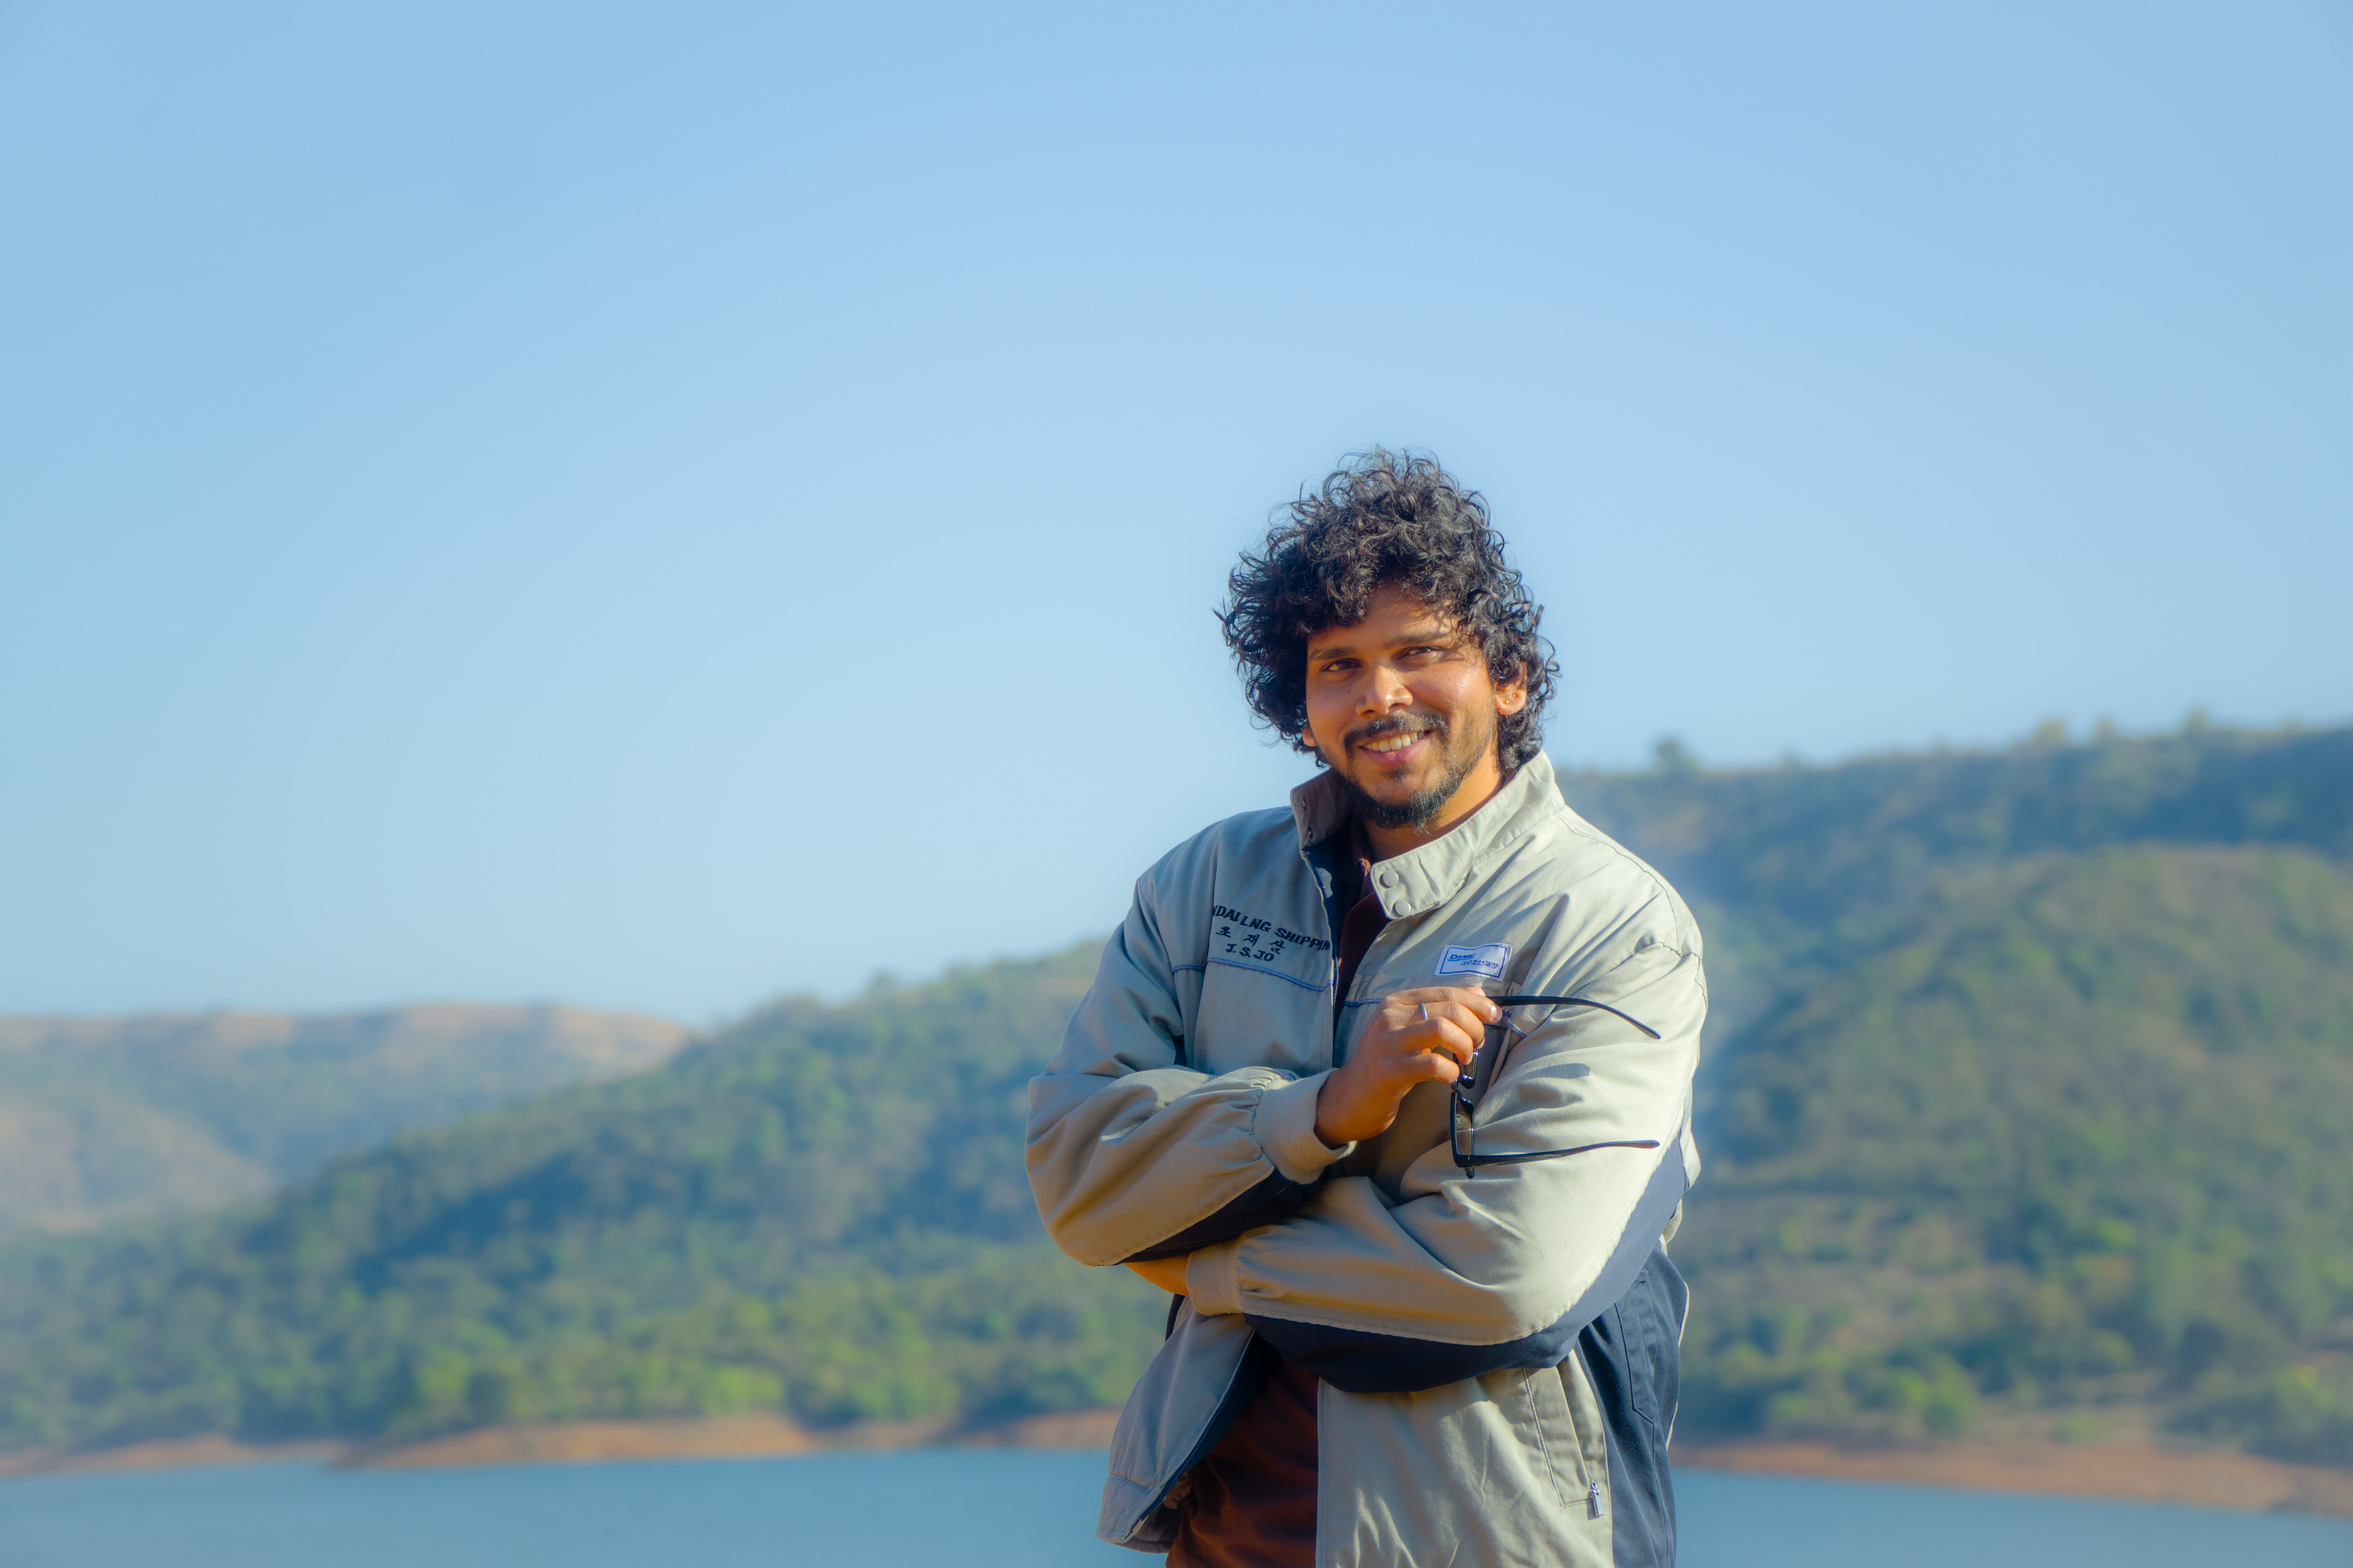
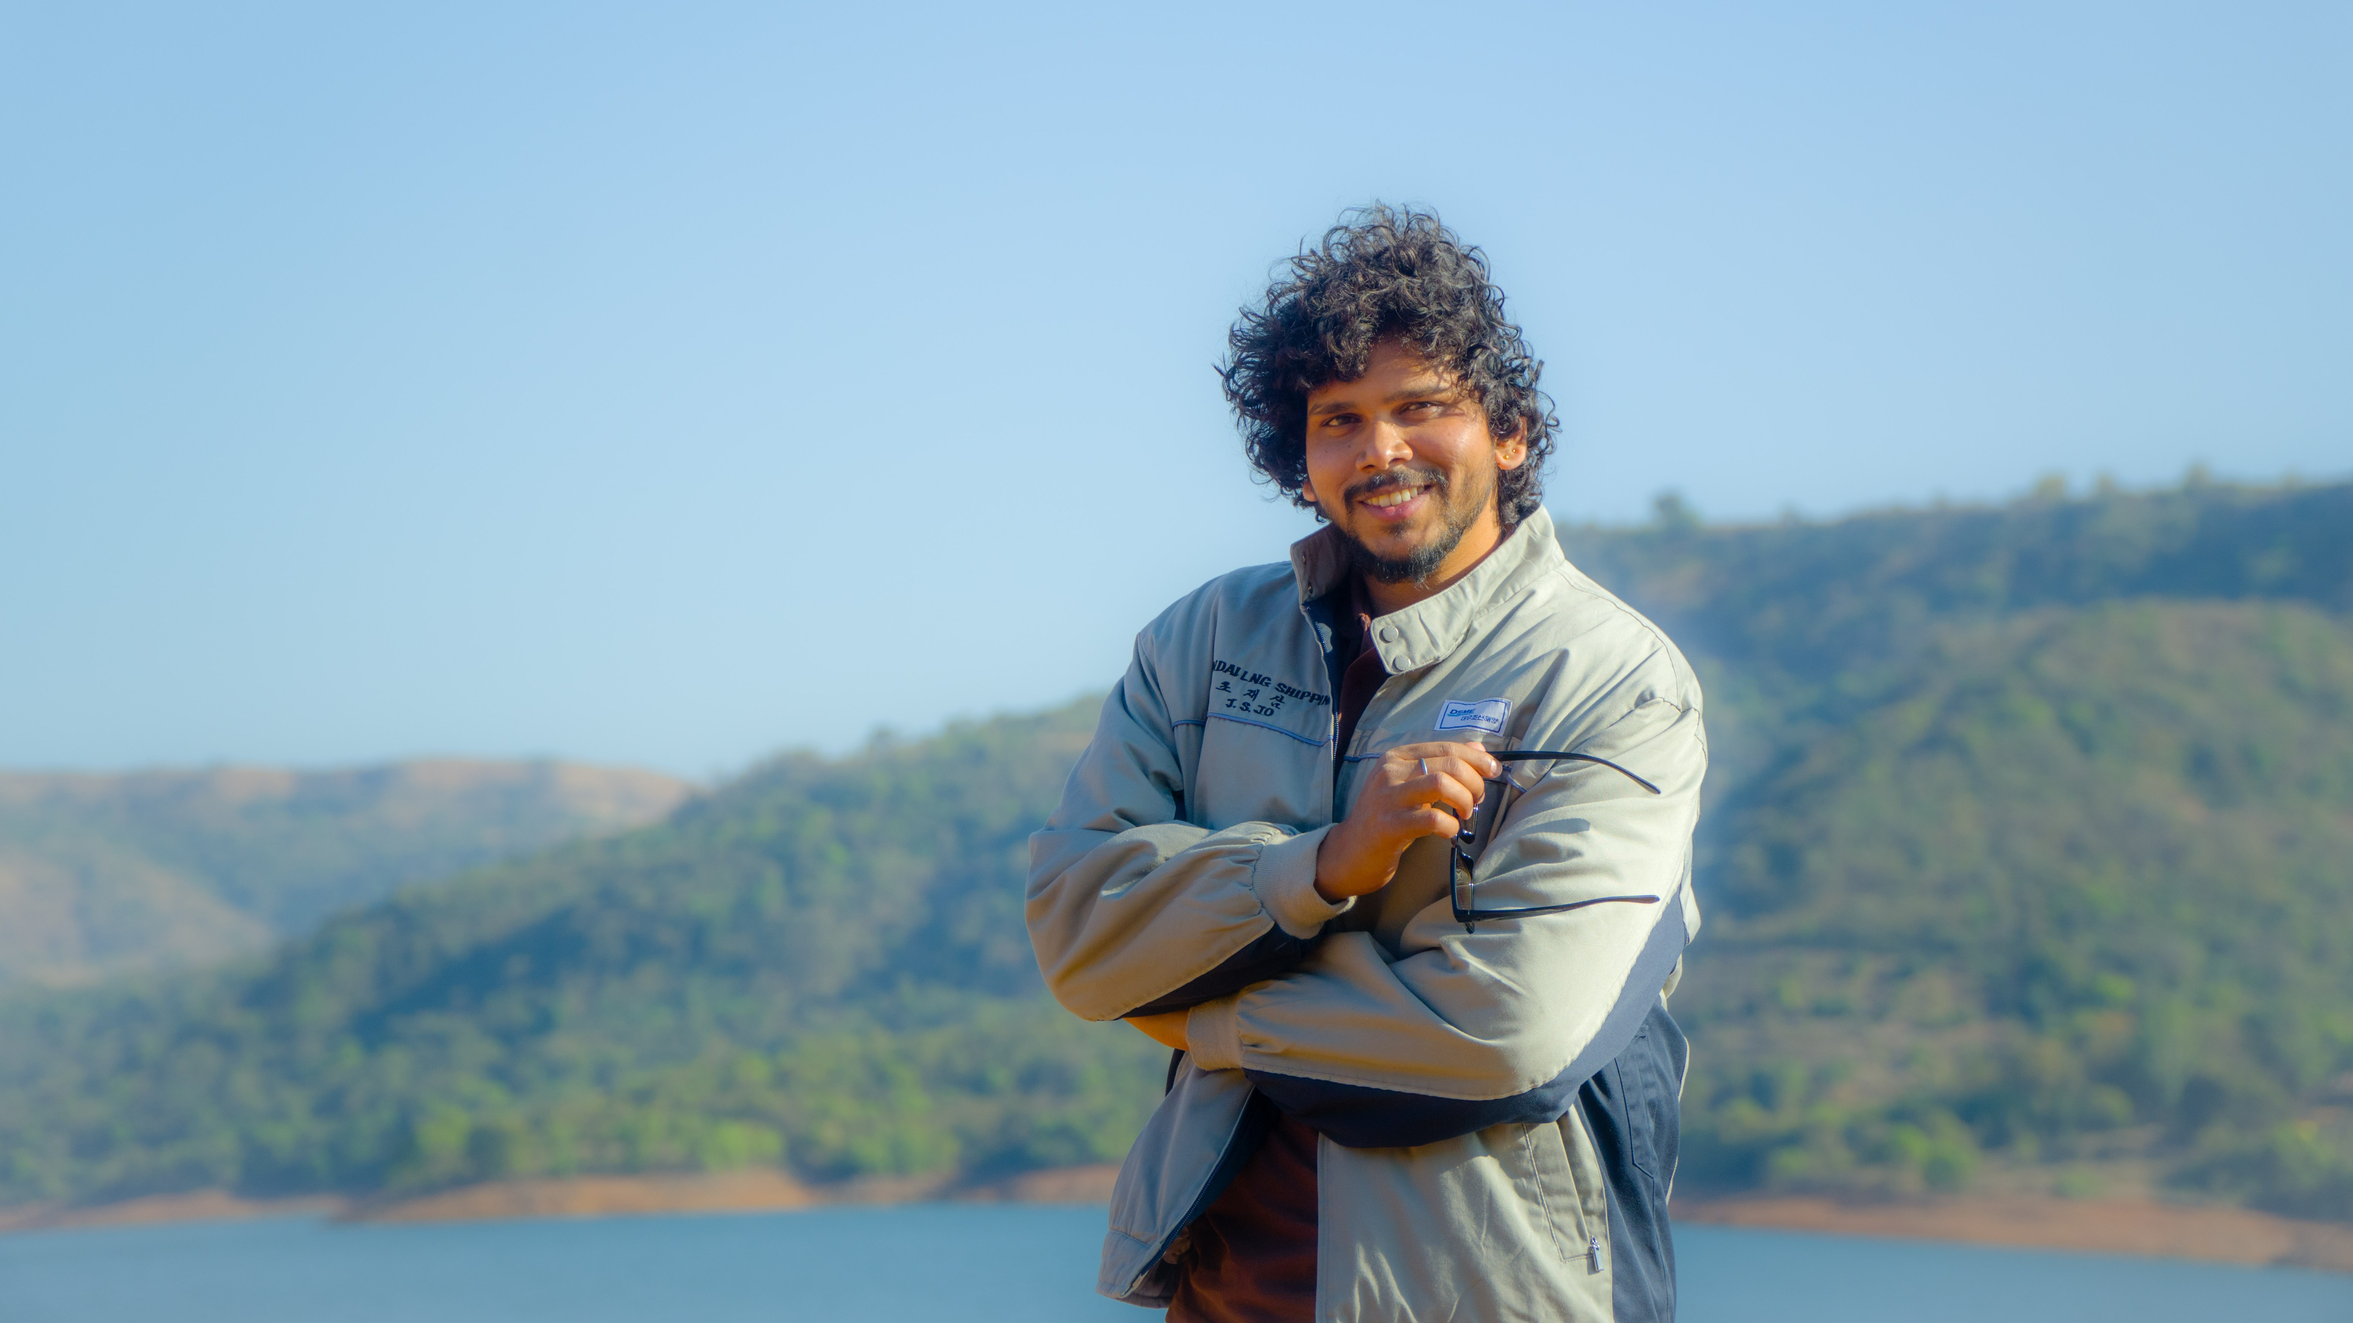
Update carousel images and comment out unused slide indicators in index.html

diff --git a/index.html b/index.html
@@ -300,12 +300,12 @@
           <span class="dot" onclick="currentSlide(2)"></span>
           <span class="dot" onclick="currentSlide(3)"></span>
           <span class="dot" onclick="currentSlide(4)"></span>
-          <span class="dot" onclick="currentSlide(5)"></span>
+          <!-- <span class="dot" onclick="currentSlide(5)"></span>
           <span class="dot" onclick="currentSlide(6)"></span>
           <span class="dot" onclick="currentSlide(7)"></span>
           <span class="dot" onclick="currentSlide(8)"></span>
           <span class="dot" onclick="currentSlide(9)"></span>
-          <span class="dot" onclick="currentSlide(10)"></span>
+          <span class="dot" onclick="currentSlide(10)"></span> -->
         </div>
       </div>
 
